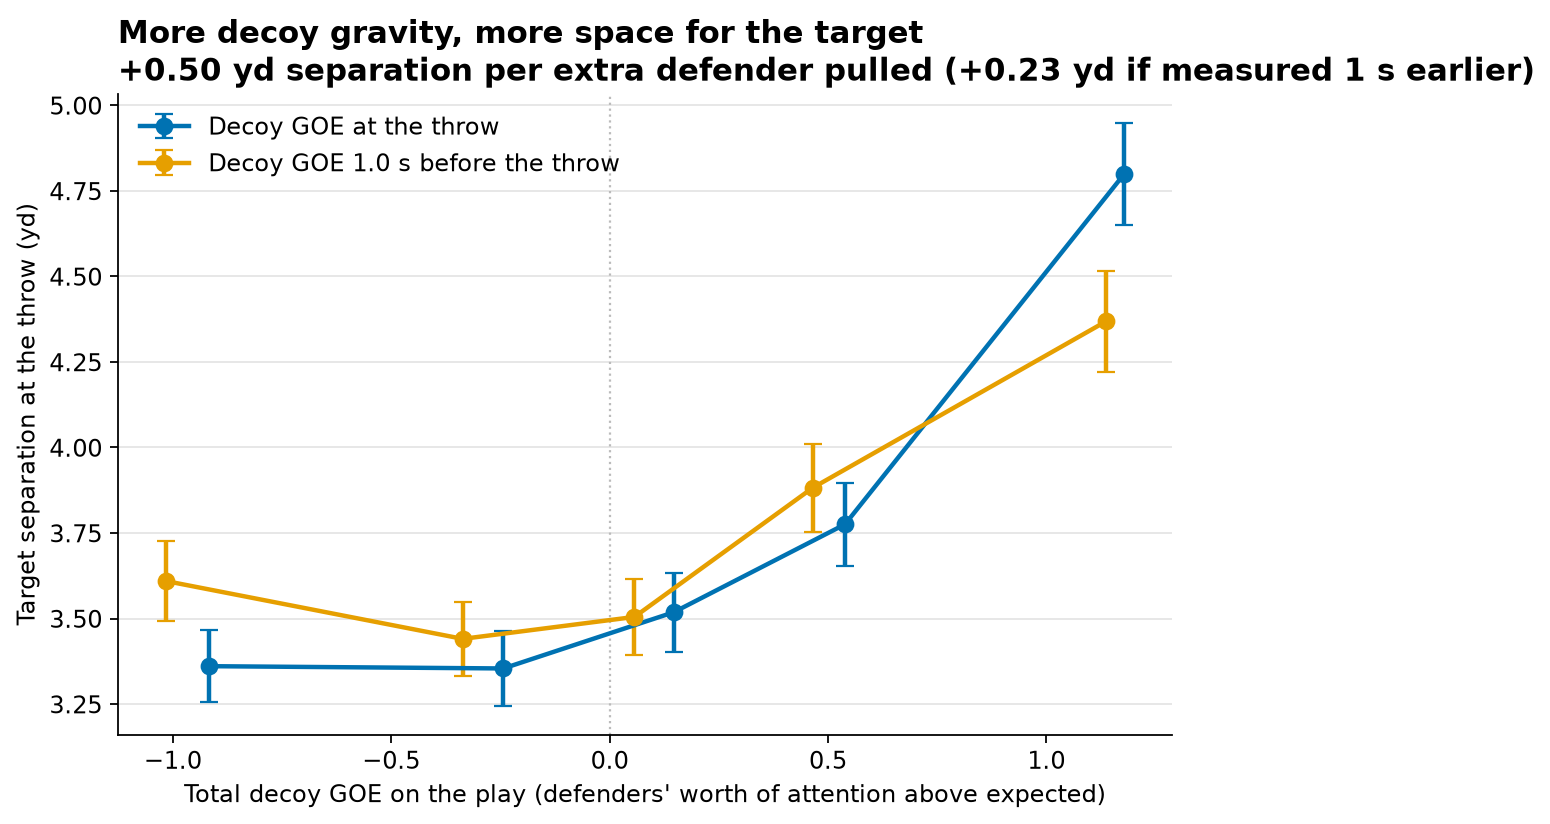
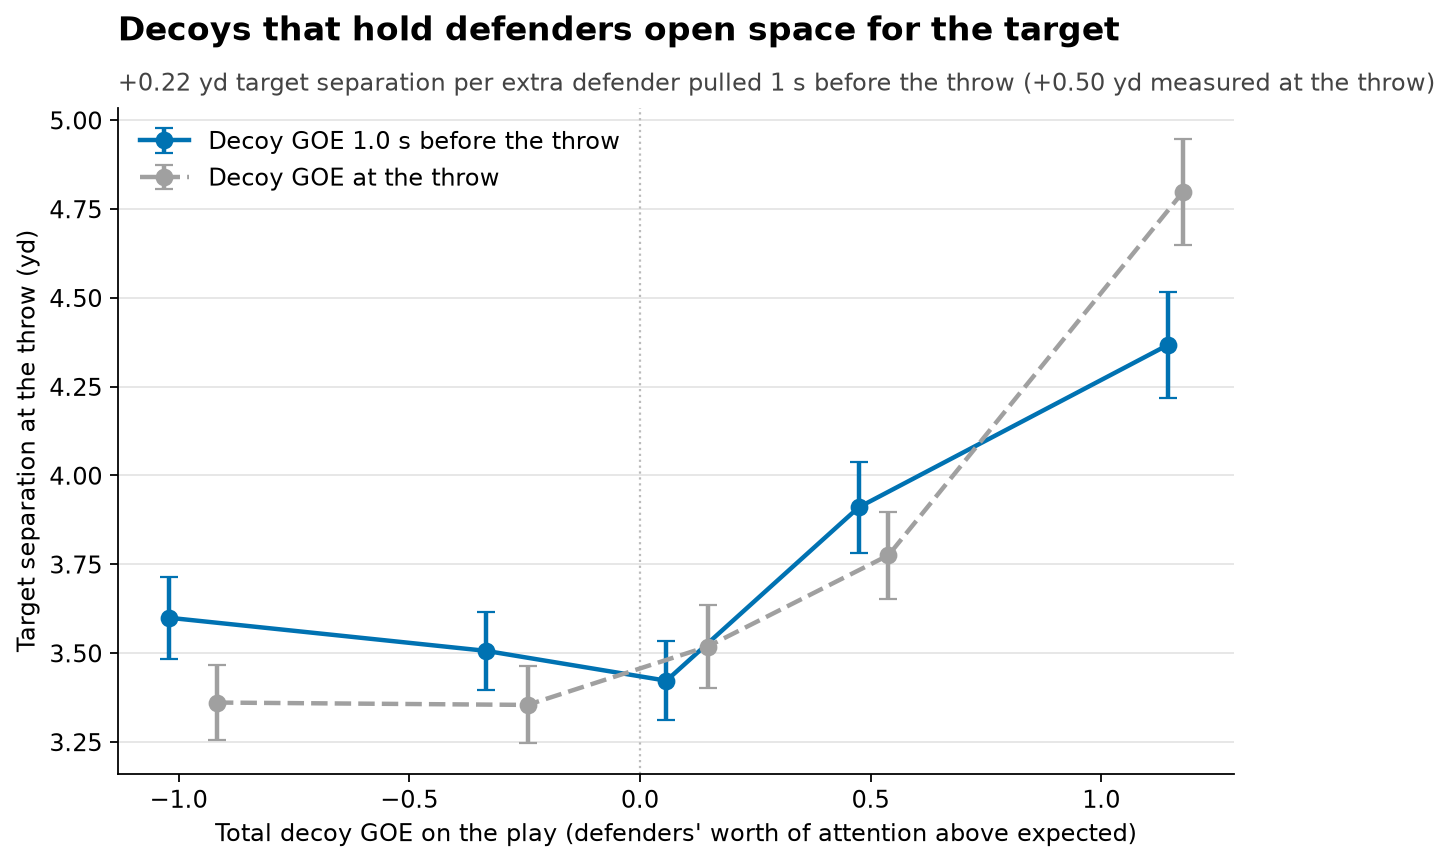
Step 5: decoy leaderboard (GOE 1 s before throw, min 50 routes) + stability checks

diff --git a/main.py b/main.py
@@ -5,7 +5,7 @@ import time
 import pandas as pd
 
 from src import plots as P
-from src.analysis import binned, ols, play_table, split_half
+from src.analysis import binned, leaderboard, ols, play_table, split_half
 from src.clean import build
 from src.metric import gravity
 from src.model import features, oof_gbm, score
@@ -13,6 +13,7 @@ from src.model import features, oof_gbm, score
 pd.set_option("display.width", 250)
 OUT = "outputs"
 BASELINE = "v2"  # chosen over v1: higher out-of-fold R2 and (slightly) more stable player GOE
+MIN_ROUTES = 50  # minimum non-targeted routes for the leaderboard (20 let small-sample players into the top 10)
 
 
 def step(msg):
@@ -41,7 +42,8 @@ def main():
 
     # Robustness: the same metric measured 1.0 s before the throw (its own expected-gravity fit)
     g_pre, _ = gravity(f, moment="pre_throw")
-    d_pre = features(f, g_pre, plays_df).reset_index(drop=True)
+    pre_ok = plays_df.loc[plays_df.pre_ok, ["gameId", "playId"]]  # drops 6 throws made < 1 s after the snap
+    d_pre = features(f, g_pre, plays_df).merge(pre_ok, on=["gameId", "playId"]).reset_index(drop=True)
     d_pre["GOE"] = d_pre.G - oof_gbm(d_pre, BASELINE)
 
     step("Step 4: does decoy gravity create space?")
@@ -74,15 +76,38 @@ def main():
     s = reg.set_index(["decoy GOE measured", "outcome"])
     eff, eff_pre = s.loc[("at throw", "sep_throw")], s.loc[("throw - 1.0 s", "sep_throw")]
     P.binned_effect(
-        {"Decoy GOE at the throw": (b_throw, P.C_DECOY), "Decoy GOE 1.0 s before the throw": (b_pre, P.C_TARGET)},
+        {"Decoy GOE 1.0 s before the throw": (b_pre, P.C_DECOY, "-"),
+         "Decoy GOE at the throw": (b_throw, P.C_OTHER, "--")},
         f"{OUT}/decoy_goe_vs_separation.png",
-        title=(f"More decoy gravity, more space for the target\n"
-               f"+{eff.coef:.2f} yd separation per extra defender pulled ({eff_pre.coef:+.2f} yd if measured 1 s earlier)"),
+        title="Decoys that hold defenders open space for the target",
+        subtitle=(f"+{eff_pre.coef:.2f} yd target separation per extra defender pulled 1 s before the throw "
+                  f"(+{eff.coef:.2f} yd measured at the throw)"),
         xlabel="Total decoy GOE on the play (defenders' worth of attention above expected)",
         ylabel="Target separation at the throw (yd)",
     )
-    print(f"\nsaved {OUT}/decoy_goe_vs_separation.png | total {time.time() - t0:.0f}s")
-    return plays_df, f, d, p, reg
+    print(f"\nsaved {OUT}/decoy_goe_vs_separation.png")
+
+    step("Step 5: player leaderboard (non-targeted routes)")
+    lb = leaderboard(d_pre, d, plays_df, min_n=MIN_ROUTES)
+    lb.to_csv(f"{OUT}/leaderboard.csv", index=False)
+    print(f"{len(lb)} players with >= {MIN_ROUTES} non-targeted routes | routes per player: "
+          f"median {lb.decoy_routes.median():.0f}, min {lb.decoy_routes.min()}, max {lb.decoy_routes.max()}")
+    cols = ["player", "team", "pos", "decoy_routes", "goe_pre", "ci95", "goe_throw"]
+    print("\nTOP 10 (ranked by decoy GOE 1 s before the throw)")
+    print(lb[cols].head(10).round(3).to_string(index=False))
+    print("\nBOTTOM 5")
+    print(lb[cols].tail(5).round(3).to_string(index=False))
+
+    stab = []
+    for name, df in [("GOE 1 s before throw (ranking)", d_pre), ("GOE at throw", d)]:
+        for split in ["weeks", "odd_even"]:
+            r = split_half(df, split=split)
+            stab.append({"metric": name, "split": "wk 1-4 vs 5-8" if split == "weeks" else "odd vs even wk",
+                         **r, "full-sample reliability (Spearman-Brown)": 2 * r["r"] / (1 + r["r"])})
+    print("\nStability: player mean non-targeted GOE, >= 10 routes in each half")
+    print(pd.DataFrame(stab).round(3).to_string(index=False))
+    print(f"\ntotal {time.time() - t0:.0f}s")
+    return plays_df, f, d, d_pre, p, reg, lb
 
 
 if __name__ == "__main__":

diff --git a/src/analysis.py b/src/analysis.py
@@ -40,10 +40,32 @@ def ols(p, y, x="decoy_goe", controls=("target_depth",)):
             "per_sd": fit.params[x] * df[x].std(), "n": len(df)}
 
 
-def split_half(goe, goe_col="GOE", min_n=10):
-    """Correlate each player's mean non-targeted GOE in weeks 1-4 vs weeks 5-8."""
-    nt = goe[~goe.is_target].assign(half=lambda d: np.where(d.week <= 4, "h1", "h2"))
+def split_half(goe, goe_col="GOE", min_n=10, split="weeks"):
+    """Correlate each player's mean non-targeted GOE across two halves of the season.
+
+    split="weeks": weeks 1-4 vs 5-8;  split="odd_even": odd vs even weeks.
+    """
+    nt = goe[~goe.is_target]
+    first = nt.week <= 4 if split == "weeks" else nt.week % 2 == 1
+    nt = nt.assign(half=np.where(first, "h1", "h2"))
     m = nt.groupby(["nflId", "half"])[goe_col].agg(["mean", "size"]).unstack()
     ok = (m[("size", "h1")] >= min_n) & (m[("size", "h2")] >= min_n)
     m = m[ok]
     return {"r": float(m[("mean", "h1")].corr(m[("mean", "h2")])), "players": int(ok.sum())}
+
+
+def leaderboard(d_pre, d_throw, plays_df, min_n=20):
+    """Mean decoy GOE per player on routes where he was NOT targeted.
+
+    Ranked by GOE measured 1 s before the throw (the fair version); at-throw GOE shown alongside.
+    """
+    ok = plays_df.loc[plays_df.pre_ok, KEY + ["possessionTeam"]]  # drop the few throws < 1 s after the snap
+    pre = d_pre[~d_pre.is_target].merge(ok, on=KEY)
+    thr = d_throw[~d_throw.is_target].merge(ok[KEY], on=KEY)
+    lb = pre.groupby("nflId").agg(player=("displayName", "first"), pos=("pos_group", "first"),
+                                  team=("possessionTeam", lambda s: s.mode().iat[0]),
+                                  decoy_routes=("GOE", "size"), goe_pre=("GOE", "mean"), sd=("GOE", "std"))
+    lb["ci95"] = 1.96 * lb.sd / np.sqrt(lb.decoy_routes)
+    lb = lb.join(thr.groupby("nflId").GOE.mean().rename("goe_throw"))
+    lb = lb[lb.decoy_routes >= min_n].sort_values("goe_pre", ascending=False)
+    return lb.drop(columns="sd").reset_index()

diff --git a/src/plots.py b/src/plots.py
@@ -3,6 +3,7 @@ import matplotlib
 
 matplotlib.use("Agg")
 import matplotlib.pyplot as plt  # noqa: E402
+from matplotlib.transforms import offset_copy  # noqa: E402
 
 C_TARGET = "#E69F00"  # amber  - targeted receiver
 C_DECOY = "#0072B2"   # blue   - other eligible receivers (decoys)
@@ -18,17 +19,27 @@ plt.rcParams.update({
 })
 
 
-def binned_effect(series, path, title, xlabel, ylabel):
-    """Binned means with 95% CI. series = {label: (binned_df, colour)} from analysis.binned."""
-    fig, ax = plt.subplots(figsize=(8.5, 5.2))
-    for label, (b, col) in series.items():
-        ax.errorbar(b.x_mean, b["mean"], yerr=b.ci95, color=col, marker="o", ms=7, lw=2, capsize=4, label=label)
+def titles(ax, title, subtitle=None):
+    """Bold left-aligned title with a lighter subtitle underneath (same style on every chart)."""
+    if subtitle:
+        ax.set_title(subtitle, loc="left", fontsize=11, fontweight="normal", color="#444444", pad=8)
+        above = offset_copy(ax.transAxes, fig=ax.figure, y=27, units="points")
+        ax.text(0, 1, title, transform=above, fontsize=15, fontweight="bold", ha="left", va="bottom")
+    else:
+        ax.set_title(title, loc="left", fontsize=15, pad=10)
+
+
+def binned_effect(series, path, title, subtitle, xlabel, ylabel):
+    """Binned means with 95% CI. series = {label: (binned_df, colour, linestyle)} from analysis.binned."""
+    fig, ax = plt.subplots(figsize=(9, 5.4))
+    for label, (b, col, ls) in series.items():
+        ax.errorbar(b.x_mean, b["mean"], yerr=b.ci95, color=col, ls=ls, marker="o", ms=7, lw=2, capsize=4, label=label)
     ax.set_xlabel(xlabel)
     ax.set_ylabel(ylabel)
-    ax.set_title(title, loc="left")
+    titles(ax, title, subtitle)
     ax.grid(axis="y", color="#E5E5E5")
     ax.axvline(0, color="#BBBBBB", lw=1, ls=":")
-    ax.legend(frameon=False)
+    ax.legend(frameon=False, loc="upper left")
     fig.savefig(path)
     plt.close(fig)
 
